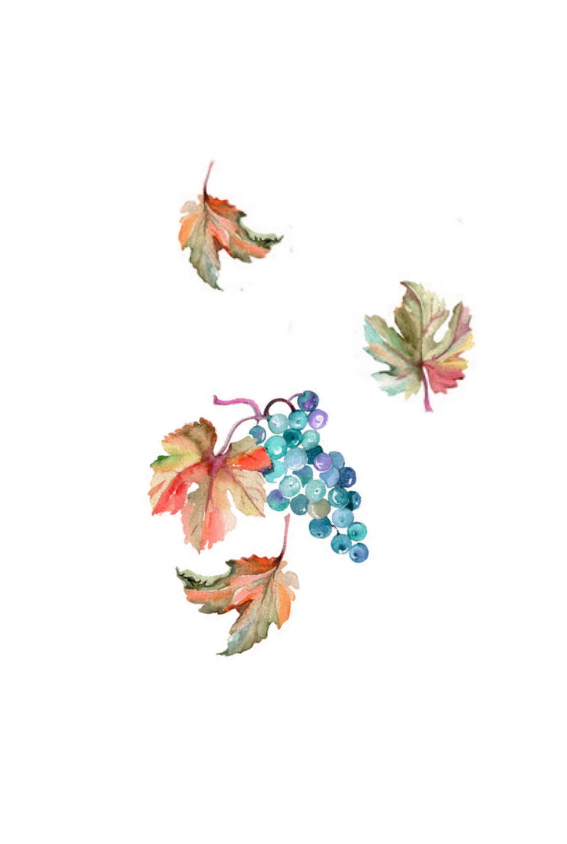
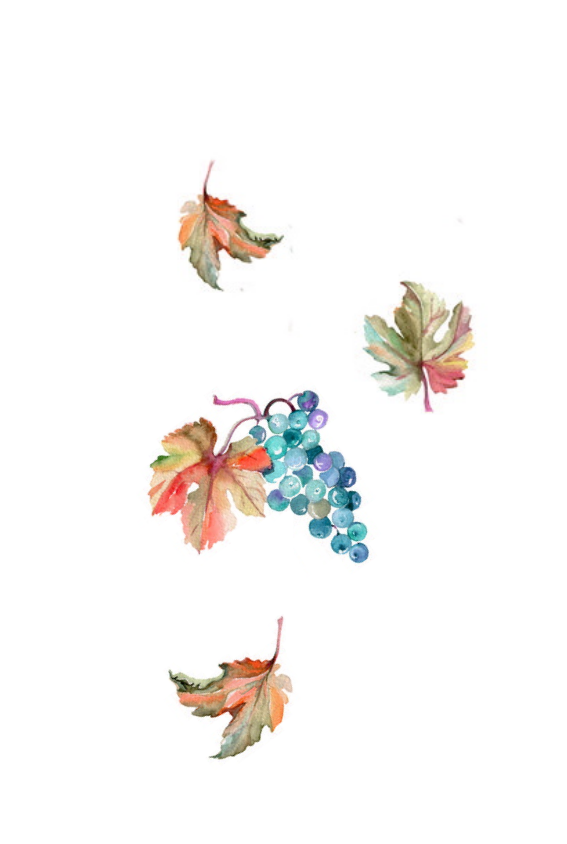
modifs après retour de Juline. Fusion des panneaux 1 et 2

Changed region(s): [[0.2998, 0.6161, 0.5397, 0.9242]]

diff --git a/index.html b/index.html
@@ -67,6 +67,7 @@
 		</div>
 	</div>
 	-->
+	<!--
 	<div id="accueil" class="main-hero">
 		<div class="c-hero-banner c-hero-banner--main">
 			<div class="cover"></div>
@@ -78,17 +79,23 @@
 			</div>
 		</div>
 	</div>
-	
+	-->
 	<!-- Section Date -->
-	<section class="date-section section countdown text-center">
-		<img src="img/cadre_logo.png" alt="cadre" class="img_cadre"/>
-		<div class="container">
+	<section class="date-section section countdown text-center nopad container_overlay">
+		<div class="c-hero-banner c-hero-banner--main overlays">
+			<div class="cover"></div>
+			<div class="c-hero-banner__section c-hero-banner__image">
+				<img class="lazyload" src="img/aquarelle1.jpeg" alt="image">
+			</div>
+		</div>
+		<img src="img/cadre_logo_blanc.png" alt="cadre" class="img_cadre"/>
+		<div class="container overlays overlay_over">
 			<div class="date-section__block">
 				<div class="d-inline-block">
 					<h2 class="title--special">14 août 2021</h2>
 					<h3 class="date-section__place">
-						Domaine de St Marc<br>
-						89660 Châtel Censoir
+						Domaine de St&nbsp;&nbsp;&nbsp;Marc<br>
+						89660 Chatel Censoir
 					</h3>
 				</div>
 			</div>
@@ -122,9 +129,10 @@
 			</div>
 			<h1 class="title text_white">Bienvenue sur le site web de notre mariage !</h1>
 			<p class="m-auto content_text text_white">En attendant le grand jour, nos informaticiens préférés ont créé ce site, composé de diverses sections afin que vous puissiez avoir les détails de cette future journée.<br><br>
-			Une information importante, dans la section Présence vous pouvez confirmer ou non votre venue. Communiquez-le-nous au plus vite afin que l’on puisse s’organiser plus facilement.<br><br>
+
+			Merci de confirmer votre venue,dans la section "votre réponse". Communiquez-le-nous au plus vite afin que l’on puisse s’organiser plus facilement.<br><br>
 			Pour toute question, n’hésitez pas à nous contacter,<br><br>
-			A très vite !</p>
+			A très vite &nbsp;!</p>
 		</div>
 	</section>
 
@@ -138,7 +146,7 @@
 						Mairie
 					</button>
 					<button class="btn btn-link collapsed" data-toggle="collapse" data-target="#collapseTwo" aria-expanded="false" aria-controls="collapseTwo">
-						Cérémonie
+						Ceremonie
 					</button>
 					<button class="btn btn-link collapsed" data-toggle="collapse" data-target="#collapseThree" aria-expanded="false" aria-controls="collapseThree">
 						Vin d'honneur
@@ -155,24 +163,24 @@
 								<h3 class="accordion__item-subheading">Horaire et lieu</h3>
 								<p class="d-flex align-items-center"><i class="fa fa-2x fa-clock-o align-middle pr-1"></i>Rendez-vous à 13h30</p>
 								<p class="d-flex align-items-center"><i class="fa fa-2x fa-map-marker align-middle pr-1"></i>1 place du Général-de-Gaulle<br>89410 Cézy</p>
-								<iframe src="https://www.google.com/maps/embed?pb=!1m18!1m12!1m3!1d3175.293056287424!2d3.340047514095921!3d47.99259856256797!2m3!1f0!2f0!3f0!3m2!1i1024!2i768!4f13.1!3m3!1m2!1s0x47efa99d9a7c45a7%3A0xdf7e629a4f82c95a!2s1%20Place%20du%20G%C3%A9n%C3%A9ral%20de%20Gaulle%2C%2089410%20C%C3%A9zy%2C%20France!5e0!3m2!1sfr!2sca!4v1618162228142!5m2!1sfr!2sca" width="600" height="450" style="border:0;" allowfullscreen="" loading="lazy"></iframe>
+								<iframe src="https://www.google.com/maps/embed?pb=!1m18!1m12!1m3!1d3175.293056287424!2d3.340047514095921!3d47.99259856256797!2m3!1f0!2f0!3f0!3m2!1i1024!2i768!4f13.1!3m3!1m2!1s0x47efa99d9a7c45a7%3A0xdf7e629a4f82c95a!2s1%20Place%20du%20G%C3%A9n%C3%A9ral%20de%20Gaulle%2C%2089410%20C%C3%A9zy%2C%20France!5e0!3m2!1sfr!2sca!4v1618162228142!5m2!1sfr!2sca" width="600" height="350" style="border:0;" allowfullscreen="" loading="lazy"></iframe>
 							</div>
 						</div>
 					</div>
 					<div id="collapseTwo" class="collapse" data-parent="#accordion">
 						<div class="row">
-							<h2 class="accordion__item-heading">Cérémonie</h2>
+							<h2 class="accordion__item-heading">Ceremonie</h2>
 							<div class="col-md-6">
 								<img class="accordion__item-img" src="img/domaine.jpg" alt="ceremony">
 							</div>
 							<div class="col-md-6 text-left">
 								<h3 class="accordion__item-subheading">Horaire et lieu</h3>
-								<p class="d-flex align-items-center"><i class="fa fa-2x fa-clock-o align-middle pr-1"></i>Rendez-vous à 13h30</p>
+								<p class="d-flex align-items-center"><i class="fa fa-2x fa-clock-o align-middle pr-1"></i>Rendez-vous à 16h00</p>
 								<p class="d-flex align-items-center"><i class="fa fa-2x fa-map-marker align-middle pr-1"></i>Domaine de St Marc<br>
 									Merry-sur-Yonne<br>
 									89660 Châtel-Censoir
 								</p>
-								<iframe src="https://www.google.com/maps/embed?pb=!1m18!1m12!1m3!1d10774.662916596117!2d3.6179623347755316!3d47.53537050455419!2m3!1f0!2f0!3f0!3m2!1i1024!2i768!4f13.1!3m3!1m2!1s0x47ee25b691afb06d%3A0x23f9ed4b180b5f39!2sDomaine%20de%20Saint-Marc!5e0!3m2!1sfr!2sca!4v1618162197791!5m2!1sfr!2sca" width="600" height="450" style="border:0;" allowfullscreen="" loading="lazy"></iframe>
+								<iframe src="https://www.google.com/maps/embed?pb=!1m18!1m12!1m3!1d10774.662916596117!2d3.6179623347755316!3d47.53537050455419!2m3!1f0!2f0!3f0!3m2!1i1024!2i768!4f13.1!3m3!1m2!1s0x47ee25b691afb06d%3A0x23f9ed4b180b5f39!2sDomaine%20de%20Saint-Marc!5e0!3m2!1sfr!2sca!4v1618162197791!5m2!1sfr!2sca" width="600" height="350" style="border:0;" allowfullscreen="" loading="lazy"></iframe>
 							</div>
 						</div>
 					</div>
@@ -189,7 +197,7 @@
 									Merry-sur-Yonne<br>
 									89660 Châtel-Censoir
 								</p>
-								<iframe src="https://www.google.com/maps/embed?pb=!1m18!1m12!1m3!1d10774.662916596117!2d3.6179623347755316!3d47.53537050455419!2m3!1f0!2f0!3f0!3m2!1i1024!2i768!4f13.1!3m3!1m2!1s0x47ee25b691afb06d%3A0x23f9ed4b180b5f39!2sDomaine%20de%20Saint-Marc!5e0!3m2!1sfr!2sca!4v1618162197791!5m2!1sfr!2sca" width="600" height="450" style="border:0;" allowfullscreen="" loading="lazy"></iframe>
+								<iframe src="https://www.google.com/maps/embed?pb=!1m18!1m12!1m3!1d10774.662916596117!2d3.6179623347755316!3d47.53537050455419!2m3!1f0!2f0!3f0!3m2!1i1024!2i768!4f13.1!3m3!1m2!1s0x47ee25b691afb06d%3A0x23f9ed4b180b5f39!2sDomaine%20de%20Saint-Marc!5e0!3m2!1sfr!2sca!4v1618162197791!5m2!1sfr!2sca" width="600" height="350" style="border:0;" allowfullscreen="" loading="lazy"></iframe>
 							</div>
 						</div>
 					</div>
@@ -225,7 +233,7 @@
 									</div>
 								</div>
 								<div class="form-group">
-									<label class="control-label filled" for="inputName">Ton nom</label>
+									<label class="control-label filled" for="inputName">Ton nom et ton prénom</label>
 									<input type="text" class="form-control" id="inputName" required>
 								</div>
 								<div class="form-group"> 
@@ -237,13 +245,13 @@
 									<label class="control-label filled" for="inputEmail">Ton email</label>
 									<input type="text" class="form-control" id="inputEmail" required>
 								</div>
-									<div class="form-group">
-									<label class="control-label filled" for="inputContent">Une petite question ou un petit mot à ajouter ?</label>
+									<div class="form-group form_extra_margin">
+									<label class="control-label filled " for="inputContent">Une petite question ou un petit mot à ajouter ?</label>
 									<input type="text" class="form-control" id="inputContent">
 								</div>
 							</div>
 							<div class="col-md-4 align-self-end">
-								<button type="submit" class="btn btn-outline-dark rounded-0 px-3 py-1 font-weight-bold">Send</button>
+								<button type="submit" class="btn btn-outline-dark rounded-0 px-3 py-1 font-weight-bold">Envoyer</button>
 							</div>
 						</div>
 						<div class="row">
@@ -262,9 +270,11 @@
 		<div class="container">
 			<h1 class="title text_white">Liste du mariage</h1>
 			<p class="m-auto content_text text_white">
-				Habitant ensemble depuis quelques années, nous sommes déjà bien installés et nous avons besoin de pas grand chose. <br><br>
-				Le lien pour nous aider à faire un très beau voyage de noce et si vous le souhaitez, une petite liste d’idées qui nous font rêver : <a href="http://google.com">lien de la liste</a><br><br>
-				Vous pourrez également participer à tous ces projets grâce à l’urne qui sera disponible le jour j 💌.
+				Habitant ensemble depuis quelques années, <br>
+				nous sommes déjà bien installés et nous n’avons pas besoin de  grand chose. <br><br>
+				Voici le lien pour nous aider à faire un très beau voyage de noce <br>
+				ou pour s’offrir quelques idées qui nous font rêver : <a href="https://www.millemercismariage.com/julineandguillaume/liste.html">Lien de la liste</a><br><br>
+				Vous pourrez également participer à tous ces projets grâce à une urne disponible le jour J 💌.
 			</p>
 		</div>
 	</section>
@@ -277,12 +287,15 @@
 				Voici une liste non exhaustive des hébergements aux alentours :
 			</p>
 			<ol class="mx-auto content_text">
-				<li>A</li>
-				<li>B</li>
-				<li>C</li>
+				<li>Gîte du frétoy à Crain (5 chalets avec piscine pouvant accueillir 30 personnes)</li>
+				<li>Gîte moulin de prénoulat à Lucy sur Yonne (pouvant accueillir 17 pax + 6 pax)</li>
+				<li>Gîte maison joli à Châtel Censoir</li>
+				<li>Maison d'hôtes saint-françois à Châtel Censoir</li>
+				<li>Villes proches pour d’autres hébergements et hôtels : Vézelay, Clamecy, Avallon, Auxerre</li>
 			</ol>
+			<br>
 			<p class="mx-auto content_text">
-				Les campings car et les tentes sont autorisés sur le domaine.
+				Les campings-car et les tentes sont autorisés sur le domaine.
 			</p>
 		</div>
 	</section>

diff --git a/css/main.css b/css/main.css
@@ -216,9 +216,6 @@ img {
 	max-width: 64px;
 }
 
-a {
-	color: inherit;
-}
 
 a:hover {
 	color: #b95428;
@@ -238,6 +235,7 @@ a:hover {
 
 .accordion__header {
 	border-bottom: 1px solid #adadad;
+	font-family: "Amsterdam";
 }
 
 .accordion__header .btn {
@@ -271,8 +269,8 @@ a:hover {
 	left: 50%;
 	-ms-transform: translateX(-50%);
 	transform: translateX(-50%);
-	font-family: "Playfair Display", serif;
-	font-size: 55px;
+	font-family: "Amsterdam";
+	font-size: 25px;
 	line-height: 120px;
 	color: #ddd;
 	text-transform: uppercase;
@@ -282,20 +280,21 @@ a:hover {
 
 @media only screen and (min-width: 768px) {
 	.accordion__item-heading {
-		font-size: 120px;
+		font-size: 35px;
 		top: -50px;
 	}
 }
 
 @media only screen and (min-width: 1200px) {
 	.accordion__item-heading {
-		font-size: 155px;
+		font-size: 55px;
 	}
 }
 
 .accordion__item-img {
 	margin-bottom: 20px;
 	min-width: 50%;
+	margin-top: 15%;
 }
 
 @media only screen and (min-width: 768px) {
@@ -1082,6 +1081,7 @@ input.search-field {
 
 .date-section__block {
 	position: relative;
+	color: white;
 }
 
 @media only screen and (min-width: 768px) {
@@ -1121,13 +1121,15 @@ input.search-field {
 .date-section__place {
 	font-family: "Amsterdam";
 	font-size: 30px;
-	line-height: 3em;
+	line-height: 3.5em;
+	letter-spacing: 1.5px;
 }
 
 .timer-item {
 	font-family: "Playlist";
 	font-size: 20px;
 	padding: 0 10px;
+	color: white;
 }
 
 @media only screen and (max-width: 768px) {
@@ -1502,17 +1504,13 @@ footer:before {
 
 .img_cadre{
 	position: absolute;
-    margin-left: auto;
-    margin-right: auto;
-    top: 0%;
-    bottom: 0;
-    left: 0;
-    right: 0;
-    width: 60%;
-    height: 100%;
+	z-index: 10;
+	top: 50%;
+	left: 50%;
+	transform: translate(-50%, -50%) scale(1.65);
 }
 
-@media only screen and (max-width: 990px) {
+@media only screen and (max-width: 800px) {
 	.img_cadre{
 		display: none;
 	}
@@ -1549,4 +1547,29 @@ footer:before {
 .form_oneline{
 	width: 3em;
 	display: inline;
+}
+
+.form_extra_margin {
+	margin: 3rem 0 0;
+}
+
+.nopad {
+	padding: 0px;
+}
+
+.container_overlay {
+  width: 100%;
+  height: 100%;
+  position: relative;
+}
+.overlays {
+  position: absolute;
+  top: 0;
+  left: 0;
+}
+.overlay_over {
+  z-index: 10;
+  top: 50%;
+  left: 50%;
+  transform: translate(-50%, -50%);
 }
